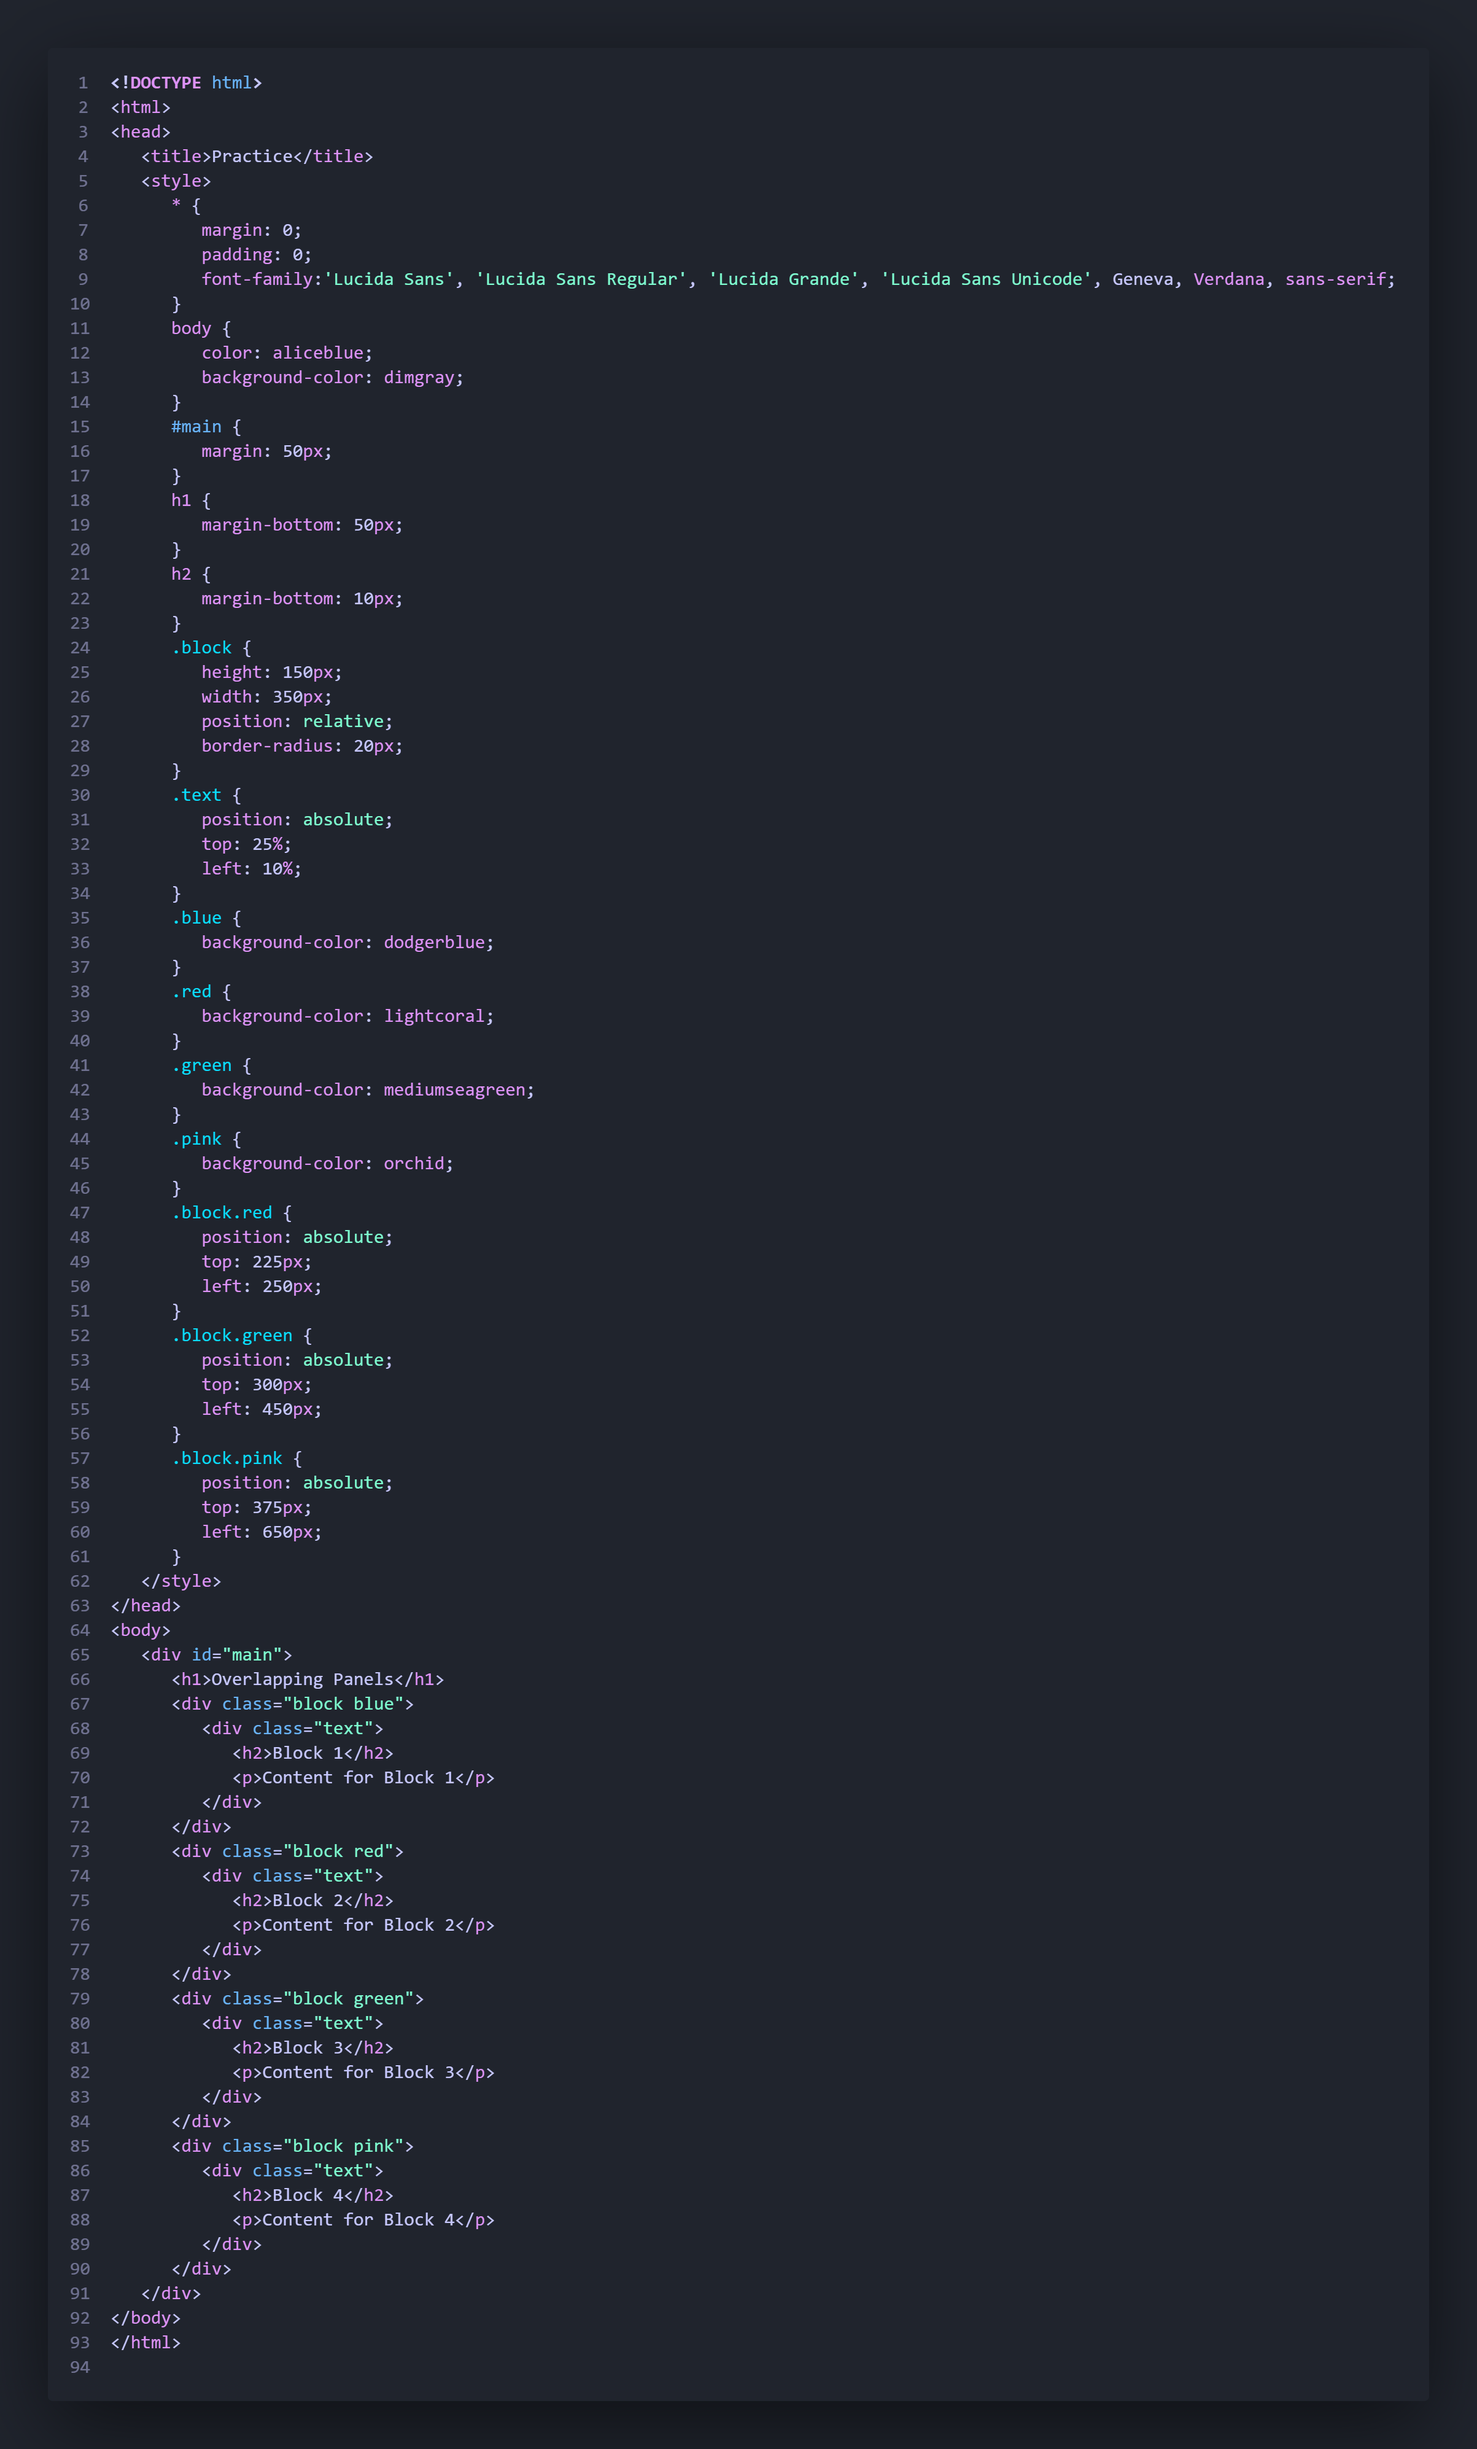
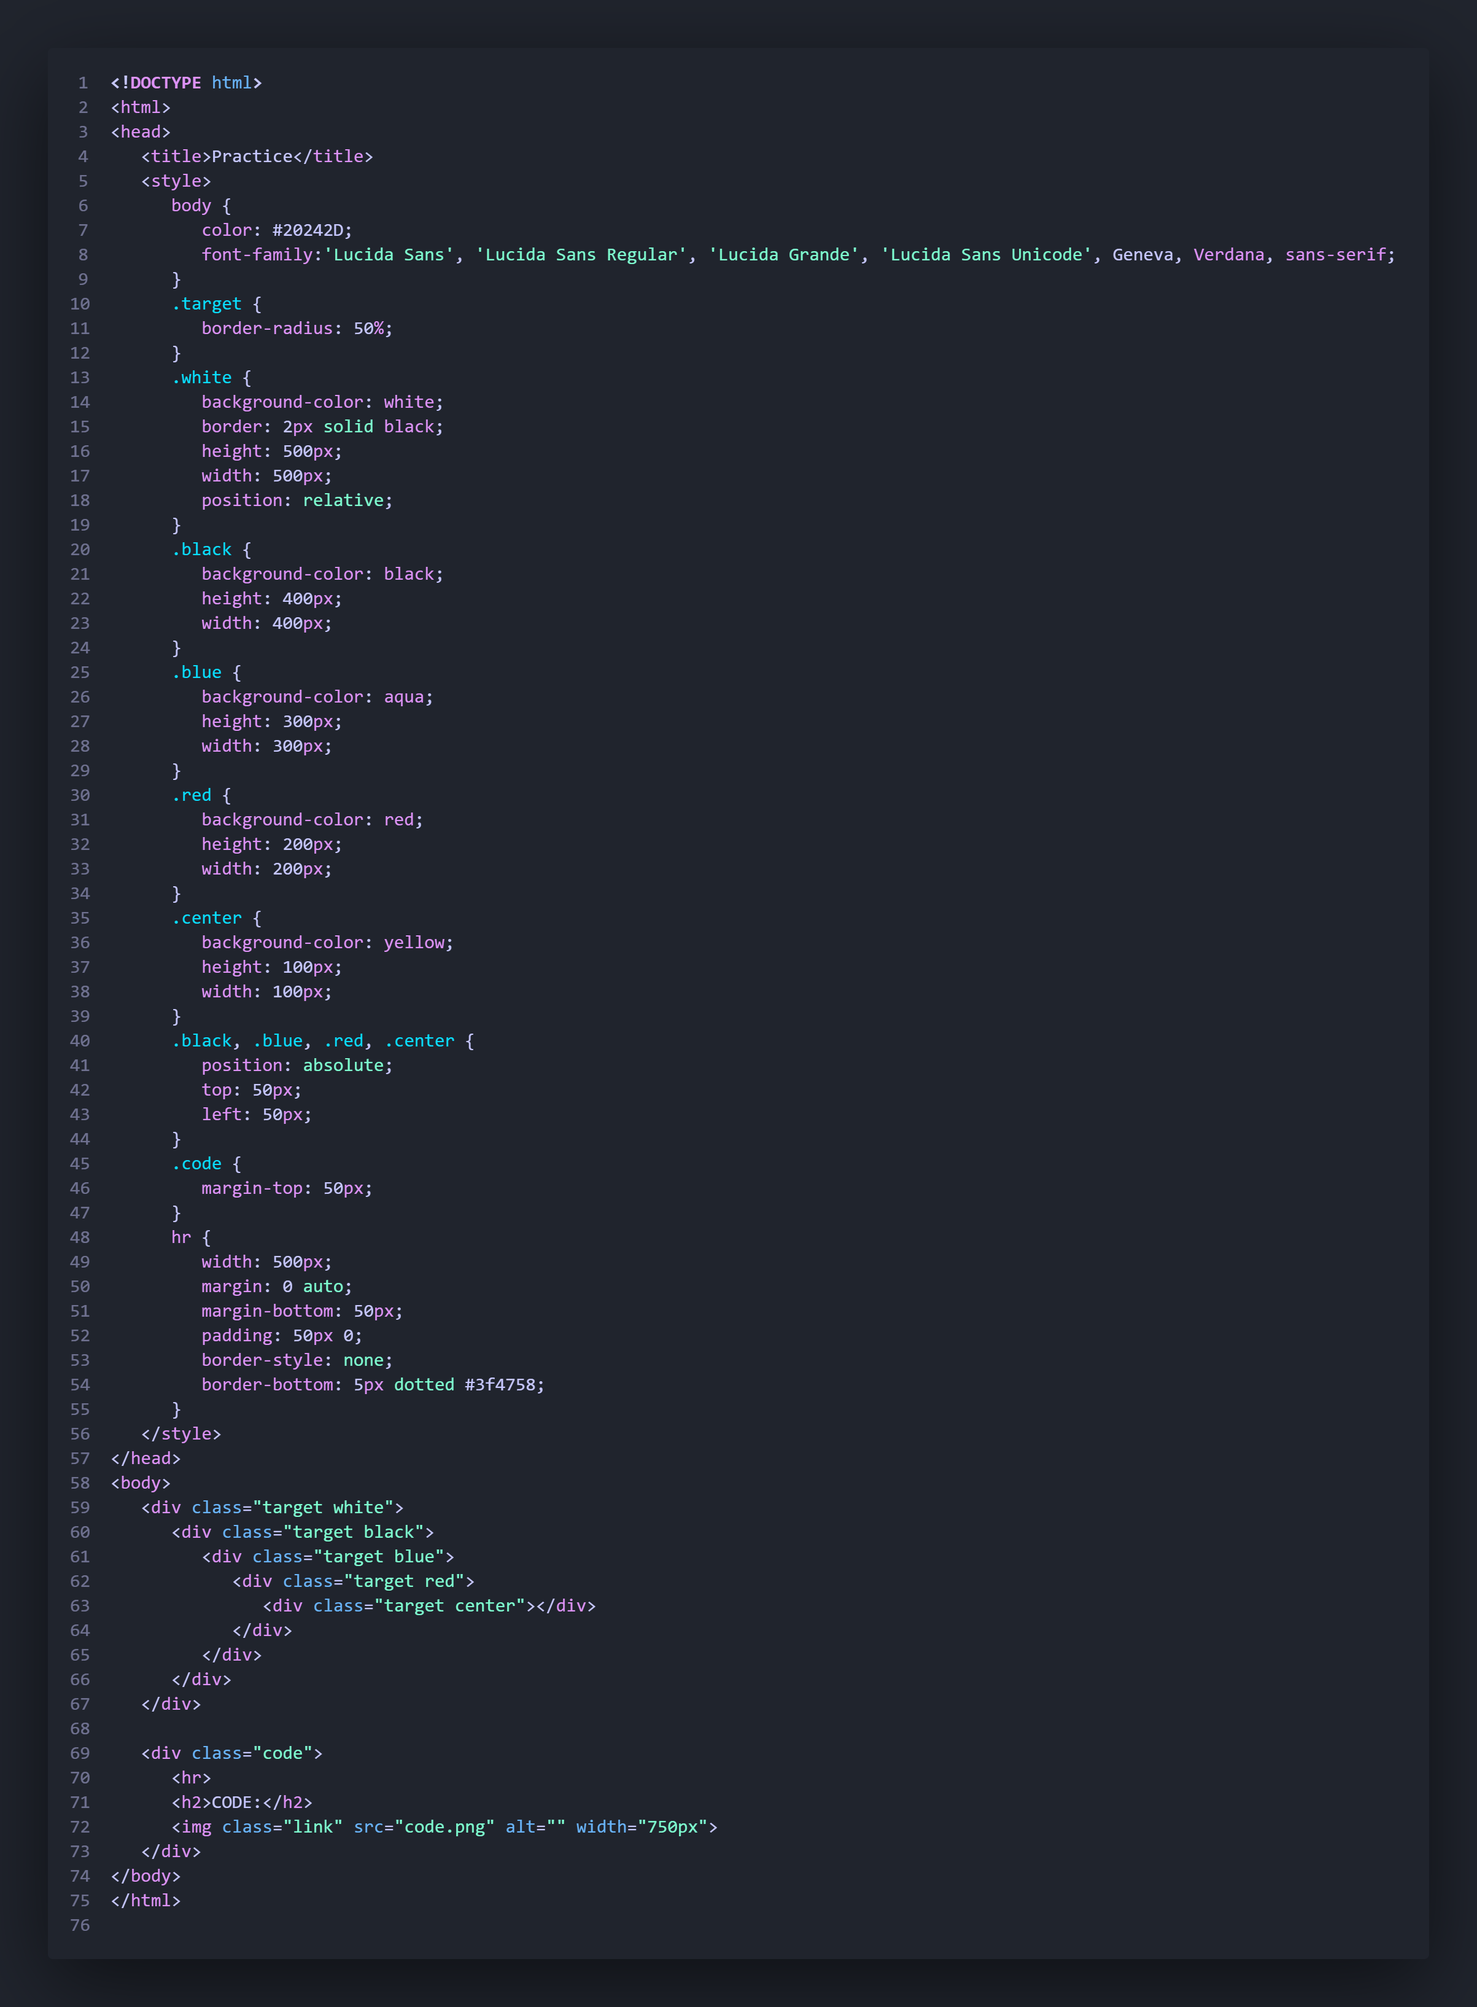
Add files via upload

diff --git a/index.html b/index.html
@@ -3,69 +3,47 @@
 <head>
    <title>Practice</title>
    <style>
-      * {
-         margin: 0;
-         padding: 0;
-      }
       body {
-         color: aliceblue;
-         background-color: #20242D;
+         color: #20242D;
          font-family:'Lucida Sans', 'Lucida Sans Regular', 'Lucida Grande', 'Lucida Sans Unicode', Geneva, Verdana, sans-serif;
       }
-      #main {
-         margin: 50px;
+      .target {
+         border-radius: 50%;
       }
-      h1 {
-         margin-bottom: 50px;
-      }
-      h2 {
-         margin-bottom: 10px;
-      }
-      .block {
-         height: 150px;
-         width: 350px;
+      .white {
+         background-color: white;
+         border: 2px solid black;
+         height: 500px;
+         width: 500px;
          position: relative;
-         border-radius: 20px;
       }
-      .text {
-         position: absolute;
-         top: 25%;
-         left: 10%;
+      .black {
+         background-color: black;
+         height: 400px;
+         width: 400px;
       }
       .blue {
-         background-color: dodgerblue;
-         border: 2px solid rgb(170, 213, 255);
+         background-color: aqua;
+         height: 300px;
+         width: 300px;
       }
       .red {
-         background-color: lightcoral;
-         border: 2px solid rgb(255, 212, 212);
+         background-color: red;
+         height: 200px;
+         width: 200px;
       }
-      .green {
-         background-color: mediumseagreen;
-         border: 2px solid rgb(178, 247, 209);
+      .center {
+         background-color: yellow;
+         height: 100px;
+         width: 100px;
       }
-      .pink {
-         background-color: orchid;
-         border: 2px solid rgb(247, 203, 245);
-      }
-      .block.red {
+      .black, .blue, .red, .center {
          position: absolute;
-         top: 225px;
-         left: 250px;
-      }
-      .block.green {
-         position: absolute;
-         top: 300px;
-         left: 450px;
-      }
-      .block.pink {
-         position: absolute;
-         top: 375px;
-         left: 650px;
+         top: 50px;
+         left: 50px;
       }
       .code {
-         margin-left: 50px;
-         margin-top: 250px;
+         margin-top: 50px;
       }
       hr {
          width: 500px;
@@ -78,37 +56,20 @@
    </style>
 </head>
 <body>
-   <div id="main">
-      <h1>Overlapping Panels</h1>
-      <div class="block blue">
-         <div class="text">
-            <h2>Block 1</h2>
-            <p>Content for Block 1</p>
-         </div>
-      </div>
-      <div class="block red">
-         <div class="text">
-            <h2>Block 2</h2>
-            <p>Content for Block 2</p>
-         </div>
-      </div>
-      <div class="block green">
-         <div class="text">
-            <h2>Block 3</h2>
-            <p>Content for Block 3</p>
-         </div>
-      </div>
-      <div class="block pink">
-         <div class="text">
-            <h2>Block 4</h2>
-            <p>Content for Block 4</p>
+   <div class="target white">
+      <div class="target black">
+         <div class="target blue">
+            <div class="target red">
+               <div class="target center"></div>
+            </div>
          </div>
       </div>
    </div>
+
    <div class="code">
       <hr>
-      <h2>CODE</h2>
-      <img class="link" src="code.png" alt="" width="800px">
+      <h2>CODE:</h2>
+      <img class="link" src="code.png" alt="" width="750px">
    </div>
 </body>
 </html>
